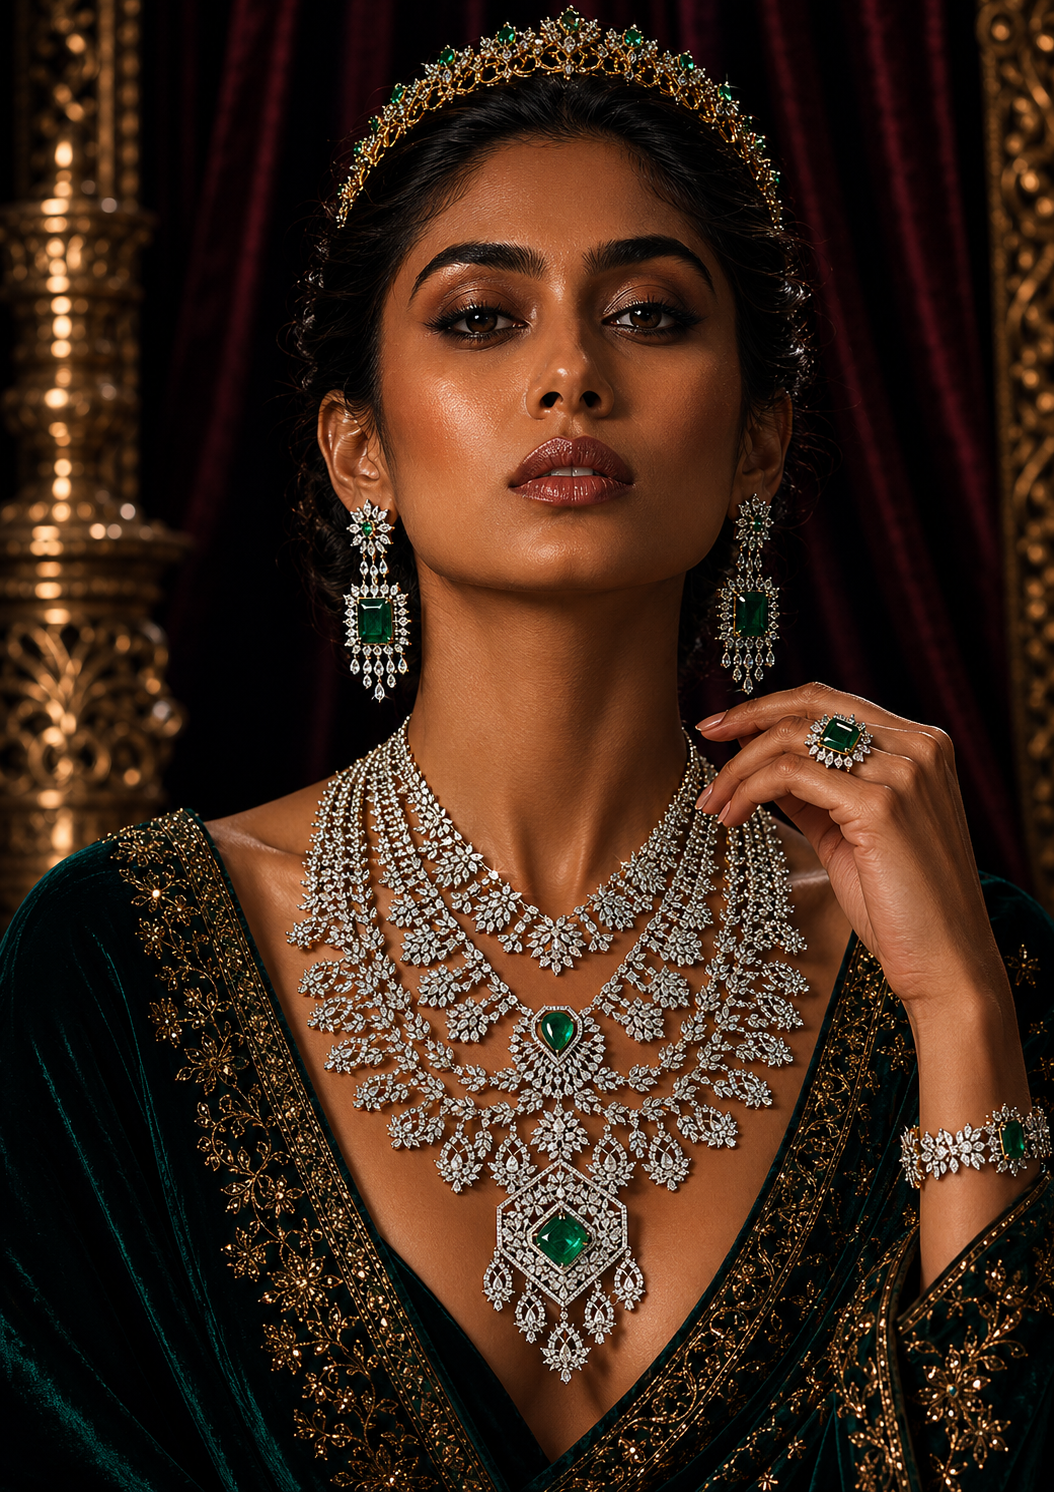
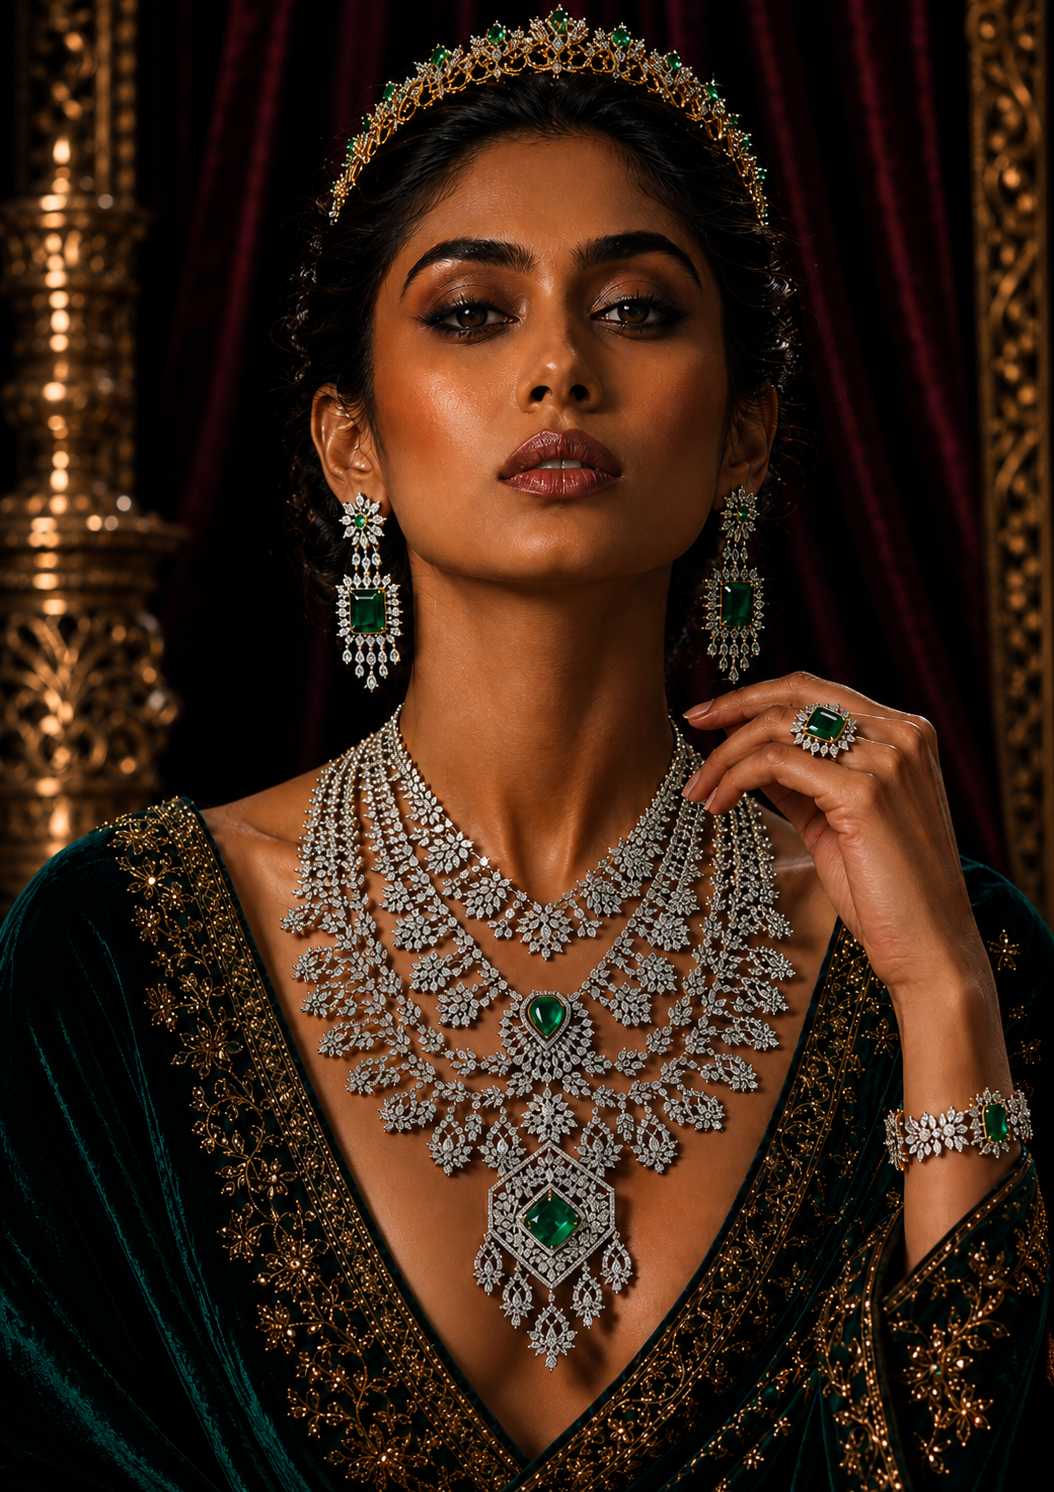
Fix slideIdx scope crash on homepage + guard undefined shortDesc on collections page

diff --git a/src/main.js b/src/main.js
@@ -357,14 +357,13 @@ function createHouseCard(piece, isHomepage) {
   wrapper.className = "image-wrapper";
 
   const multi = piece.images && piece.images.length > 1;
+  let slideIdx = 0;
 
   if (multi) {
     imageArea.setAttribute("data-slideshow", "");
 
     const slideshow = document.createElement("div");
     slideshow.className = "house-slideshow";
-
-    let slideIdx = 0;
 
     if (piece.trailer) {
       const slide = document.createElement("div");

diff --git a/src/pages/collections.js b/src/pages/collections.js
@@ -144,7 +144,7 @@ document.addEventListener("DOMContentLoaded", function () {
             <span class="text-[10px] tracking-[0.12em] uppercase text-stone-400 mb-1">${esc(item.subcategory)}</span>
             <h4 class="font-serif text-lg text-stone-800 leading-snug mb-1 group-hover:text-primary transition-colors">${esc(item.name)}</h4>
             ${desc ? `<p class="text-[11px] text-stone-400 leading-relaxed line-clamp-2 mb-2">${desc}</p>` : ""}
-            <p class="text-[11px] tracking-widest uppercase text-stone-400 mt-auto">${esc(item.shortDesc)}</p>
+            <p class="text-[11px] tracking-widest uppercase text-stone-400 mt-auto">${esc(item.shortDesc || "")}</p>
           </div>
         </a>
       `;